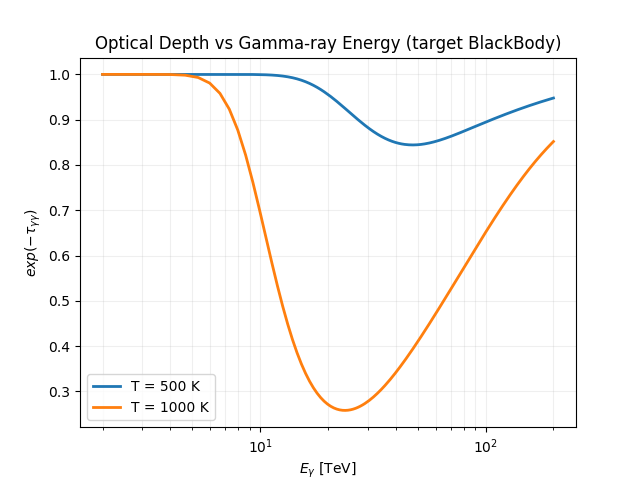
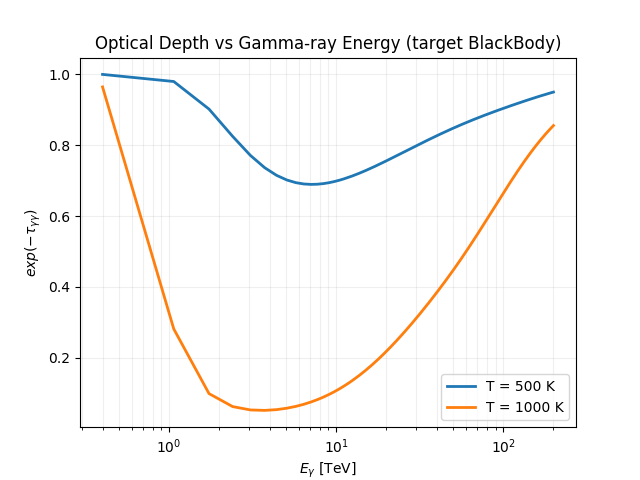
Reverted back to scipy's quad due to better accuracy

diff --git a/optical_depth/calc_opt_depth.py b/optical_depth/calc_opt_depth.py
@@ -14,10 +14,9 @@
 from __future__ import division
 from astropy import units as u
 from astropy.constants import m_e, k_B, sigma_T, c, hbar
-from scipy.integrate import quad, quadrature
+from scipy.integrate import quad
 import numpy as np
 from numpy import log, sqrt
-import matplotlib.pyplot as plt
 from math import log, sqrt, pi
 import astropy.constants as const
 from astropy.cosmology import FlatLambdaCDM
@@ -116,7 +115,7 @@ class CalcOptDepthBB(object):
         return ((1 / E) * self.sigma(s / E, E) * self._softphoton_dist(s / E))
 
     def calc_opt_depth(self, E):
-        tau = self.size * quadrature(self.tau_integrand, 1., 1e2, args=(E,),vec_func=False)[0]
+        tau = self.size * quad(self.tau_integrand, 1., 1e2, args=E,)[0]
         return tau
 
 
@@ -234,7 +233,7 @@ if __name__ == '__main__':
     Tarr = [500, 1000] * u.K
     s = 1 * u.kpc
 
-    Emin = 2 * u.TeV
+    Emin = 4e2 * u.GeV
     Emax = 2e2 * u.TeV
     Earr = np.linspace(Emin, Emax, 300)
 
@@ -261,6 +260,7 @@ if __name__ == '__main__':
     plt.legend(loc='best')
     fig1.savefig('./images/tau_BB_trials.png')
     plt.show()
+
 
     ################## Test for Class CalcOptDepthPWL #############
     taupl = CalcOptDepthPWL()
